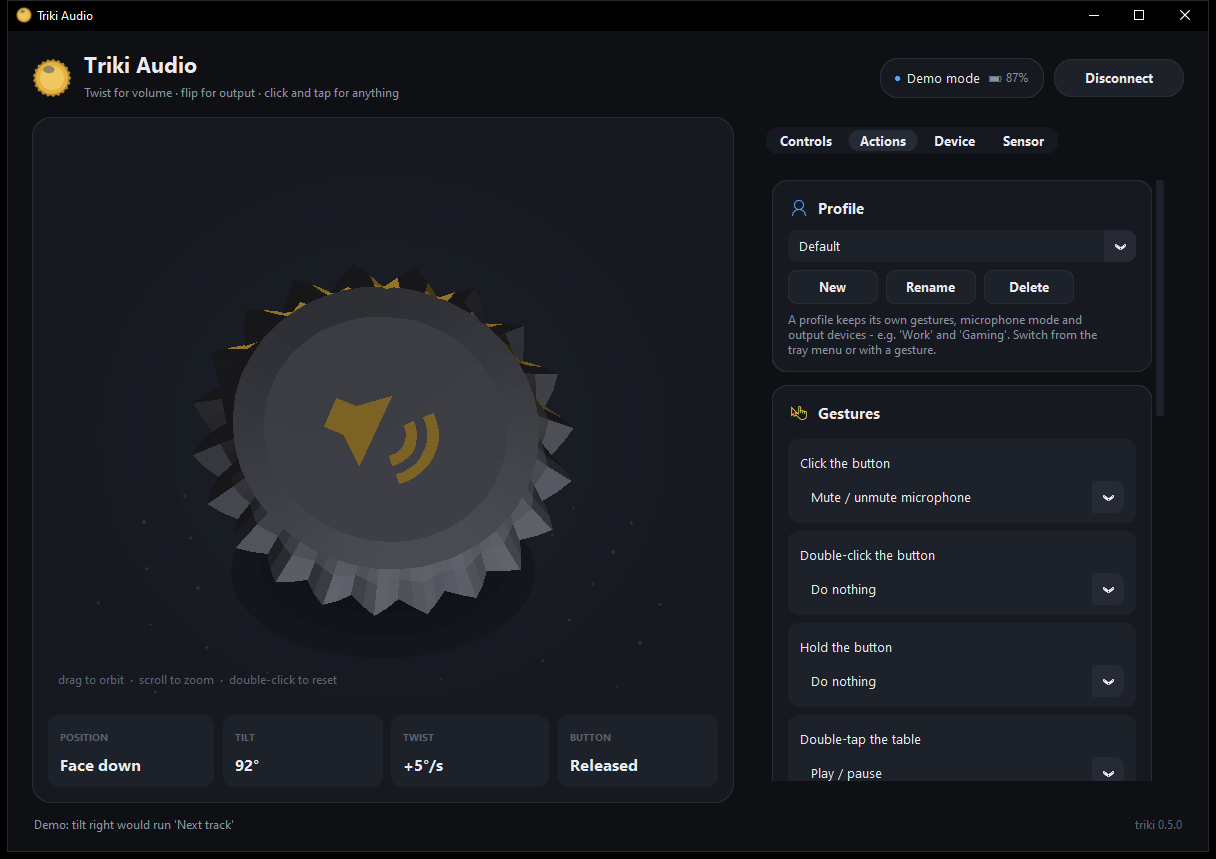
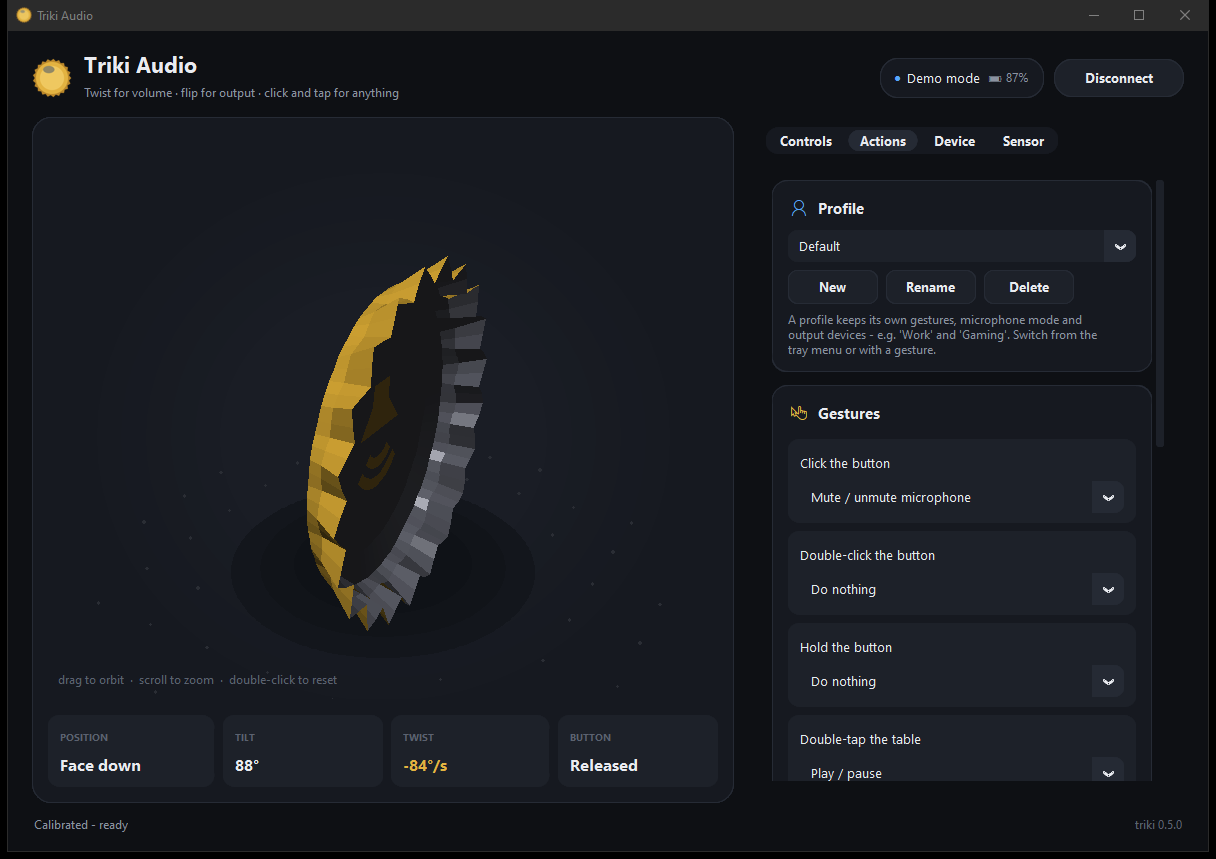
Remove tilting and the marble game; adjustable shake force
- Tilt gestures (left/right/forward/back) are gone: on real caps the
  tilt direction drifted, so they did more harm than good.
- The marble game (played by tilting) is gone too.
- New Shake card on the Actions tab: "Shake force needed" slider with a
  live "Shake!" confirmation.
- README, demo GIF and screenshot updated.

diff --git a/triki_audio.py b/triki_audio.py
@@ -35,7 +35,7 @@ except ImportError:  # not installed: use the copy next to this project
     import triki
 from triki.orientation import dot
 
-MIN_TRIKI = (0, 5, 0)   # tilt, shake and battery
+MIN_TRIKI = (0, 5, 0)   # shake and battery
 if tuple(int(x) for x in triki.__version__.split(".")[:3]) < MIN_TRIKI:
     raise SystemExit(f"Triki Audio needs triki {'.'.join(map(str, MIN_TRIKI))} or newer "
                      f"(found {triki.__version__}). Run: pip install -U -r requirements.txt")
@@ -65,8 +65,8 @@ OLD_CONFIG_FILE = HERE / "triki_audio_config.json"     # where older versions ke
 ICON_FILE = DATA_DIR / "triki_audio.ico"
 NO_DEVICE = "Don't switch"
 MIC_MODES = ("Click to toggle", "Hold to talk")
-# library events the app reacts to (tilt_left etc. are app-side names for the 'tilt' event)
-TRIKI_EVENTS = ("calibrated", "twist", "flip", "tap", "double_tap", "tilt", "shake", "press", "release",
+# library events the app reacts to
+TRIKI_EVENTS = ("calibrated", "twist", "flip", "tap", "double_tap", "shake", "press", "release",
                 "click", "single_click", "double_click", "long_press", "battery")
 LOW_BATTERY = 15
 LAYOUTS = {"Auto": "auto", "ABC=gyro, DEF=accel": "gyro_first", "ABC=accel, DEF=gyro": "accel_first"}
@@ -160,11 +160,12 @@ class App(ctk.CTk):
         self.action_args = {g: V(tk.StringVar, "") for g in GESTURES}
         self._impact_hold = 0.0        # strongest knock since the last screen update (triki thread)
         self.mic_mode = V(tk.StringVar, MIC_MODES[0])
+        self.shake_force = V(tk.DoubleVar, 0.8)       # g away from gravity that counts as a shake jolt
+        self.shake_flash_until = 0.0
         self.app_twist = V(tk.BooleanVar, True)       # hold the button + twist = volume of the playing app
         self.profile_name = V(tk.StringVar, "Default")
         self.profiles = {}                            # name -> settings snapshot
         self._current_profile = "Default"
-        self.game_best = {}
         self.battery = None
         self._low_warned = False
         self._held_target = None                      # app whose volume this press is changing
@@ -172,7 +173,6 @@ class App(ctk.CTk):
         self._app_level = None
         self.now_playing = None
         self._media_toast_until = 0.0
-        self.game = None
         self.media = media.MediaWatcher(lambda np: self.call_soon(lambda np=np: self._now_playing_changed(np)))
         self.impact_peak = 0.0
         self.flash_text, self.flash_until = "", 0.0
@@ -270,9 +270,6 @@ class App(ctk.CTk):
                                       fg_color=theme.ACCENT, hover_color=theme.ACCENT_HOVER,
                                       text_color=theme.ACCENT_TEXT)
         self.conn_btn.pack(side="right")
-        ctk.CTkButton(head, text="", width=38, height=38, corner_radius=19, font=F["icon"],
-                      fg_color=theme.SURFACE, hover_color=theme.SURFACE_3, text_color=theme.TEXT,
-                      border_width=1, border_color=theme.BORDER, command=self.open_game)            .pack(side="right", padx=(0, 10))
         pill = ctk.CTkFrame(head, fg_color=theme.SURFACE, corner_radius=19, height=38,
                             border_width=1, border_color=theme.BORDER)
         pill.pack(side="right", padx=(0, 10))
@@ -524,9 +521,17 @@ class App(ctk.CTk):
                 box.hint.configure(text=ARG_HINTS[aid])
                 box.pack(fill="x", pady=(6, 0))
         self._label(card.body, "Twist (volume) and flip (output device) are set on the Controls tab. "
-                               "Tilt = tip the cap onto an edge and hold; it repeats while held. "
                                "Button gestures are off while the mic is in 'Hold to talk' mode. "
                                "Actions only run while a real Triki is connected.", pady=(6, 0))
+
+        shake = Card(root, "\uE7C9", "Shake", F, icon_colour=theme.INFO)
+        shake.pack(fill="x", pady=(0, 12))
+        self.shake_flash = ctk.CTkLabel(shake.body, text="", font=F["button"], text_color=theme.MUTED)
+        self.shake_flash.pack(fill="x", pady=(0, 2))
+        self._slider_row(shake.body, "Shake force needed", self.shake_force, 0.4, 2.5,
+                         lambda v: f"{v:.1f} g", steps=21)
+        self._label(shake.body, "Higher = you have to shake harder. Raise it if the cap 'shakes' when "
+                                "you just pick it up.", pady=(0, 0))
 
         taps = Card(root, "\uE945", "Table taps", F, icon_colour=theme.INFO)
         taps.pack(fill="x", pady=(0, 12))
@@ -653,6 +658,7 @@ class App(ctk.CTk):
             cfg.upside_down = bool(self.upside_down.get())
             cfg.tap_threshold_g = float(self.tap_threshold.get())
             cfg.double_tap_s = float(self.double_tap_window.get())
+            cfg.shake_threshold_g = float(self.shake_force.get())
         except (tk.TclError, ValueError):
             pass  # half-typed value - keep the previous settings
         return cfg
@@ -967,9 +973,9 @@ class App(ctk.CTk):
                     self._set_mic(True)
             elif e.name == "battery":
                 self._battery_changed(e.value)
-            elif e.name == "tilt":
-                self._gesture("tilt_" + e.value)
             elif e.name in GESTURES or e.name == "single_click":
+                if e.name == "shake":
+                    self.shake_flash_until = time.time() + 1.5
                 self._gesture(e.name)
             elif e.name == "tap":
                 self._flash(f"Tap  ({e.value:.2f} g)")
@@ -1043,8 +1049,6 @@ class App(ctk.CTk):
         if name in BUTTON_GESTURES or name == "single_click":
             if self._ptt or self._held_twisted:     # the button is busy with talk / app volume
                 return
-        if self.game is not None and name.startswith(("tilt", "shake", "double_tap")):
-            return                                  # the marble game owns tilting right now
         if name in ("click", "single_click"):
             # With a double-click action set, a click must wait to see whether a second one follows.
             wait = self._action_id("double_click") != "none"
@@ -1077,9 +1081,6 @@ class App(ctk.CTk):
                 return
             if aid == "next_profile":
                 self._next_profile()
-                return
-            if aid == "game":
-                self.open_game()
                 return
             if aid == "mute":
                 actions.tap_key(actions.VK["volumemute"])   # Windows shows its own overlay
@@ -1239,18 +1240,6 @@ class App(ctk.CTk):
 
     def profile_names(self):
         return list(self.profiles)
-
-    # ------------------------------------------------------------- marble game
-    def open_game(self):
-        if self.game is not None:
-            self.game.lift()
-            return
-        import game
-        self.show_window()
-        self.game = game.MarbleGame(self, on_close=self._game_closed)
-
-    def _game_closed(self):
-        self.game = None
 
     def _cycle_output(self):
         devs = self.audio.list_outputs()
@@ -1478,6 +1467,9 @@ class App(ctk.CTk):
             flash = self.flash_text if time.time() < self.flash_until else ""
             self._set(self.tap_flash, text=flash or "Knock twice next to the cap to try it")
             self._set(self.tap_flash, text_color=theme.GOOD if flash else theme.MUTED)
+            shook = time.time() < self.shake_flash_until
+            self._set(self.shake_flash, text="Shake!" if shook else "Shake the cap to try it",
+                      text_color=theme.GOOD if shook else theme.MUTED)
         if self.tabs.get() == "Sensor":
             a = st.accel_g
             self.stat["Roll"].set(f"{st.roll:+.1f}°")
@@ -1538,7 +1530,7 @@ class App(ctk.CTk):
     # ------------------------------------------------------------- config
     CONFIG_KEYS = ("layout", "gyro_scale", "odr", "kp", "invert_gyro", "vol_enabled", "vol_deg_per_100",
                    "knob_deadzone", "vol_invert", "vol_osd", "switch_enabled", "switch_hold",
-                   "tap_threshold", "double_tap_window",
+                   "tap_threshold", "double_tap_window", "shake_force",
                    "auto_connect", "close_to_tray", "notify", "mic_badge", "upside_down")
 
     def save_config(self):
@@ -1550,7 +1542,6 @@ class App(ctk.CTk):
             self.profiles[self._current_profile] = self._profile_snapshot()
             data["profiles"] = self.profiles
             data["profile"] = self._current_profile
-            data["game_best"] = getattr(self, "game_best", {})
             data.update(dev_ids=self.dev_ids, dev_names=self.dev_names, ble_address=self.ble_address, ble_name=self.ble_name,
                         badge_pos=list(self.badge.pos) if getattr(self, "badge", None) and self.badge.pos
                         else self.badge_pos)
@@ -1587,7 +1578,6 @@ class App(ctk.CTk):
                 self.action_args[g].set(spec.get("arg", ""))
         pos = data.get("badge_pos")
         self.badge_pos = tuple(pos) if isinstance(pos, list) and len(pos) == 2 else None
-        self.game_best = data.get("game_best") or {}
         profiles = data.get("profiles")
         if isinstance(profiles, dict) and profiles:
             self.profiles = profiles

diff --git a/actions.py b/actions.py
@@ -17,7 +17,6 @@ ACTIONS = {
     "output_cycle": ("Switch output device", Icon.SPEAKERS, False),
     "shuffle": ("Toggle shuffle", "", False),
     "next_profile": ("Next profile", "", False),
-    "game": ("Open the marble game", "", False),
     "shortcut": ("Keyboard shortcut...", "\uE765", True),
     "open": ("Open app or website...", "\uE8A7", True),
 }
@@ -29,15 +28,10 @@ GESTURES = {
     "double_click": "Double-click the button",
     "long_press": "Hold the button",
     "double_tap": "Double-tap the table",
-    "tilt_left": "Tilt left",
-    "tilt_right": "Tilt right",
-    "tilt_forward": "Tilt forward",
-    "tilt_back": "Tilt back",
     "shake": "Shake",
 }
 BUTTON_GESTURES = ("click", "double_click", "long_press")
 DEFAULTS = {"click": "mic", "double_click": "none", "long_press": "none", "double_tap": "play_pause",
-            "tilt_left": "prev", "tilt_right": "next", "tilt_forward": "none", "tilt_back": "none",
             "shake": "shuffle"}
 
 ARG_HINTS = {

diff --git a/tray.py b/tray.py
@@ -73,7 +73,6 @@ class Tray:
                 pystray.MenuItem(name, (lambda n: (lambda icon, item: a.call_soon(lambda: a.switch_profile(n))))(name),
                                  checked=(lambda n: (lambda item: a._current_profile == n))(name), radio=True)
                 for name in a.profile_names()))),
-            pystray.MenuItem("Play the marble game", on_gui(a.open_game)),
             pystray.MenuItem("Start with Windows", on_gui(a.toggle_startup),
                              checked=lambda item: a.startup_enabled),
             pystray.Menu.SEPARATOR,

diff --git a/README.md b/README.md
@@ -11,11 +11,10 @@ Turn the **Triki** bottle-cap controller into a desk audio remote for Windows.
 | **flip** it face up / face down | switch between two output devices (e.g. speakers ↔ headset) |
 | **click** the button | mute / unmute the microphone - or **hold to talk** |
 | **double-tap the table** next to it | play / pause |
-| **tilt** it left / right and hold | previous / next track (repeats while held) |
 | **shake** it | toggle shuffle |
-| double-click, hold, tilt forward / back | free to assign |
+| double-click, hold the button | free to assign |
 
-Every click, tap, tilt and shake can be set to: mute the mic, play/pause,
+Every click, tap and shake can be set to: mute the mic, play/pause,
 next / previous track, shuffle, mute the speakers, switch output device,
 switch profile, **any keyboard shortcut**, or **open an app or website**.
 
@@ -28,7 +27,6 @@ Also:
 * **Sleep-aware** - when the cap dozes off, press its button and it's back in seconds.
 * Runs in the **tray**, can **start with Windows**, shows a **"Muted" badge** while
   your mic is off.
-* A little **marble maze** you play by tilting the cap.
 
 > Unofficial. Not affiliated with the maker of the Triki. Built on the
 > [triki-py](https://github.com/witw2/triki-py) library.
@@ -58,14 +56,14 @@ or double-click **`Triki Audio.pyw`** (no console window).
 2. Keep the cap still for a second while it calibrates (only needed once -
    the calibration is remembered).
 3. **Controls** tab → pick an output device for *face up* and *face down*.
-4. **Actions** tab → choose what clicks, taps, tilts and shakes do.
+4. **Actions** tab → choose what clicks, taps and shakes do.
 
 No cap at hand? **Device → Try demo** simulates one (your audio is left alone).
 
 ## Running in the background
 
 * Closing the window hides it to the **tray** (the gold cap icon). Right-click
-  it for quick controls, profiles, the game, or **Quit**.
+  it for quick controls, profiles, or **Quit**.
 * **Device → Start with Windows** starts it hidden in the tray when you sign in.
 * It remembers your Triki and reconnects automatically, also after the cap
   went to sleep (press the cap's button to wake it).
@@ -79,8 +77,7 @@ No cap at hand? **Device → Try demo** simulates one (your audio is left alone)
 * **Volume moves too fast or slow?** Controls → *Full sweep*.
 * **Hold to talk:** Controls → Microphone → *Hold to talk*. You're muted except
   while the button is held. Other button gestures are paused in this mode.
-* **Tilt direction:** the speaker logo on the cap in the 3D view points to the
-  *right* edge. Tilts and the marble game follow the logo.
+* **Shake too easy or too hard?** Actions → *Shake force needed*.
 * **Table taps too sensitive (or not enough)?** Actions → *Table taps* has a
   live meter: knock a few times and set *Knock needed* just below your knocks.
 * **Pop-ups / muted badge:** Controls → *Notifications*.
@@ -107,7 +104,6 @@ a release.
 triki_audio.py   app window, connection, gestures -> actions, profiles
 actions.py       media keys, keyboard shortcuts, launching apps
 media.py         now playing + media control (Windows media sessions)
-game.py          the marble maze
 cap_view.py      3D bottle-cap renderer and sensor charts
 overlay.py       pop-up notifications and the "Muted" badge
 tray.py          system-tray icon and menu
